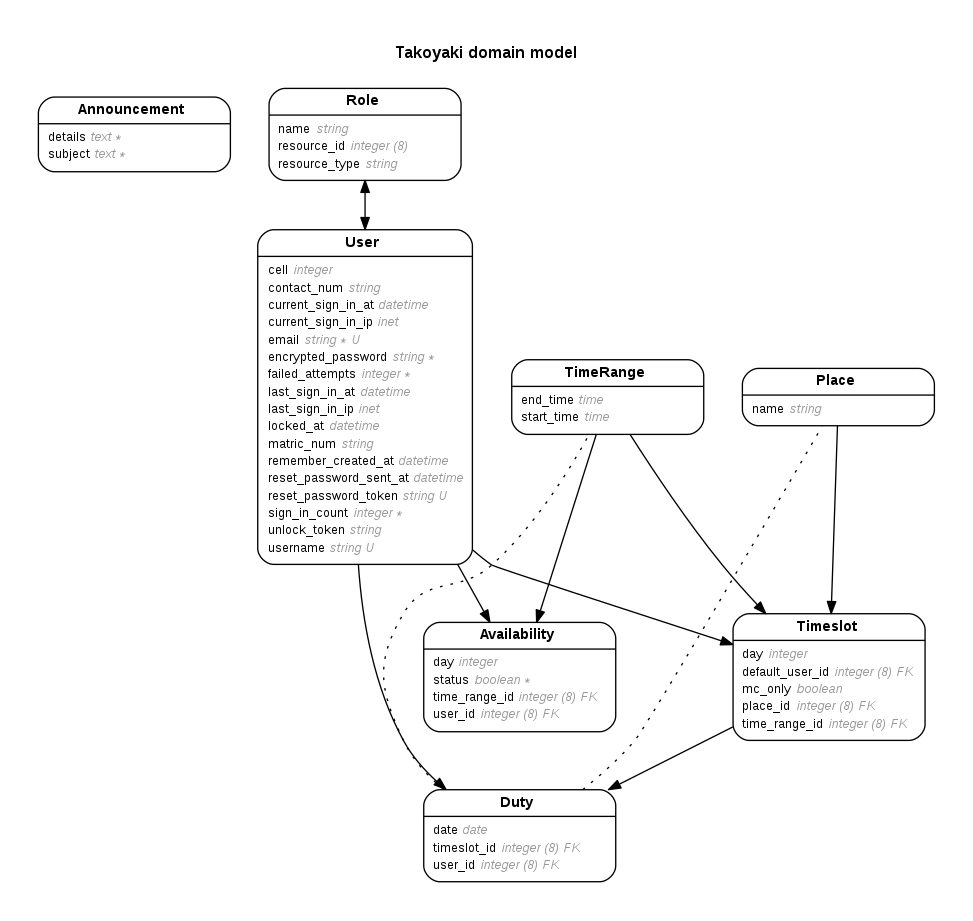
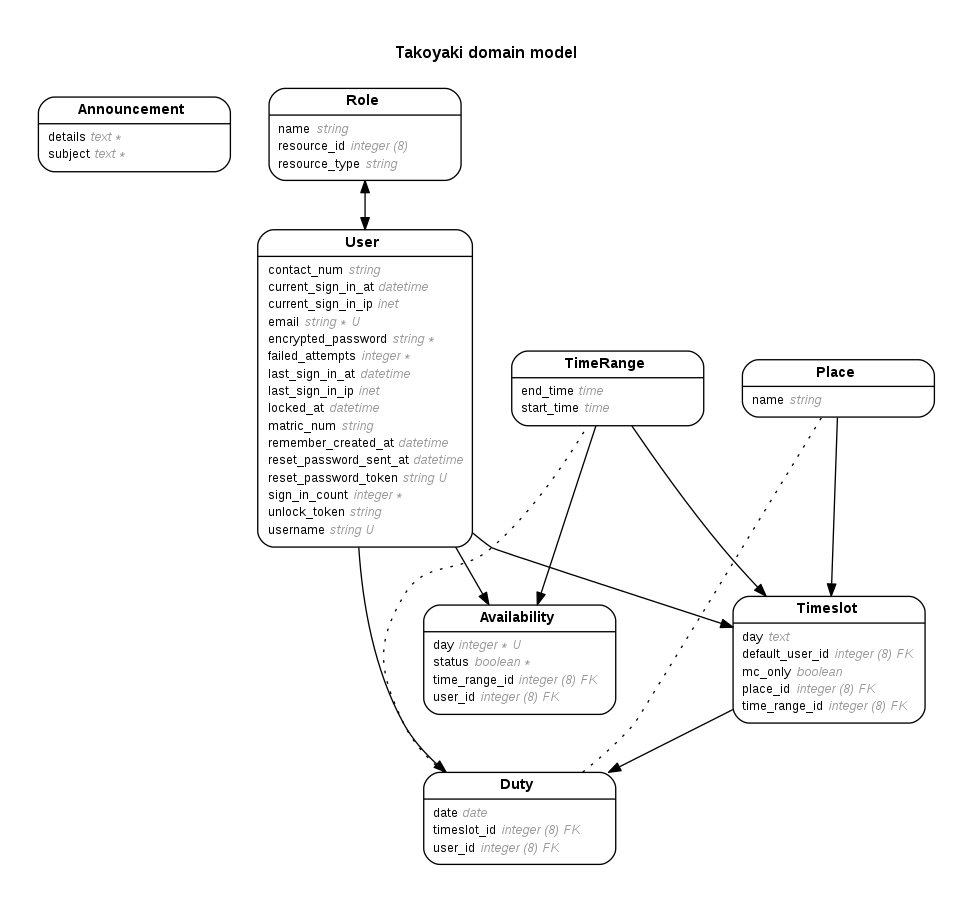
Remove AddCellToUsers Migration

diff --git a/db/schema.rb b/db/schema.rb
@@ -10,7 +10,7 @@
 #
 # It's strongly recommended that you check this file into your version control system.
 
-ActiveRecord::Schema.define(version: 20180329164621) do
+ActiveRecord::Schema.define(version: 20180319073436) do
 
   # These are extensions that must be enabled in order to support this database
   enable_extension "plpgsql"
@@ -24,11 +24,13 @@ ActiveRecord::Schema.define(version: 20180329164621) do
 
   create_table "availabilities", force: :cascade do |t|
     t.bigint   "user_id",       :index=>{:name=>"index_availabilities_on_user_id"}
+    t.integer  "day",           :null=>false
     t.bigint   "time_range_id", :index=>{:name=>"index_availabilities_on_time_range_id"}
     t.datetime "created_at",    :null=>false
     t.datetime "updated_at",    :null=>false
     t.boolean  "status",        :null=>false
-    t.integer  "day"
+
+    t.index ["user_id", "time_range_id", "day"], :name=>"index_availabilities_on_user_id_and_time_range_id_and_day", :unique=>true
   end
 
   create_table "duties", force: :cascade do |t|
@@ -62,12 +64,12 @@ ActiveRecord::Schema.define(version: 20180329164621) do
 
   create_table "timeslots", force: :cascade do |t|
     t.boolean  "mc_only"
+    t.text     "day"
     t.bigint   "default_user_id", :index=>{:name=>"index_timeslots_on_default_user_id"}
     t.bigint   "time_range_id",   :index=>{:name=>"index_timeslots_on_time_range_id"}
     t.bigint   "place_id",        :index=>{:name=>"index_timeslots_on_place_id"}
     t.datetime "created_at",      :null=>false
     t.datetime "updated_at",      :null=>false
-    t.integer  "day"
   end
 
   create_table "users", force: :cascade do |t|
@@ -89,7 +91,6 @@ ActiveRecord::Schema.define(version: 20180329164621) do
     t.string   "username",               :index=>{:name=>"index_users_on_username", :unique=>true}
     t.string   "matric_num"
     t.string   "contact_num"
-    t.integer  "cell"
   end
 
   create_table "users_roles", id: false, force: :cascade do |t|

diff --git a/spec/models/user_spec.rb b/spec/models/user_spec.rb
@@ -23,7 +23,6 @@
 #  username               :string
 #  matric_num             :string
 #  contact_num            :string
-#  cell                   :integer
 #
 # Indexes
 #
@@ -37,9 +36,4 @@ require 'rails_helper'
 RSpec.describe User, type: :model do
   it { should have_many(:duties) }
   it { should have_many(:timeslots).with_foreign_key(:default_user_id) }
-  it {
-    should define_enum_for(:cell)
-      .with(['Welfare', 'Training', 'Technical', 'Publicity', 'Presidential',
-             'Marketing', 'Center and Ops'])
-  }
 end

diff --git a/app/models/user.rb b/app/models/user.rb
@@ -23,7 +23,6 @@
 #  username               :string
 #  matric_num             :string
 #  contact_num            :string
-#  cell                   :integer
 #
 # Indexes
 #
@@ -41,6 +40,4 @@ class User < ApplicationRecord
   has_many :duties, dependent: :nullify
   has_many :timeslots, foreign_key: :default_user_id, inverse_of: :user,
                        dependent: :nullify
-  enum cell: ['Welfare', 'Training', 'Technical', 'Publicity', 'Presidential',
-              'Marketing', 'Center and Ops']
 end

diff --git a/app/models/timeslot.rb b/app/models/timeslot.rb
@@ -6,12 +6,12 @@
 #
 #  id              :integer          not null, primary key
 #  mc_only         :boolean
+#  day             :text
 #  default_user_id :integer
 #  time_range_id   :integer
 #  place_id        :integer
 #  created_at      :datetime         not null
 #  updated_at      :datetime         not null
-#  day             :integer
 #
 # Indexes
 #

diff --git a/spec/factories/timeslots.rb b/spec/factories/timeslots.rb
@@ -6,12 +6,12 @@
 #
 #  id              :integer          not null, primary key
 #  mc_only         :boolean
+#  day             :text
 #  default_user_id :integer
 #  time_range_id   :integer
 #  place_id        :integer
 #  created_at      :datetime         not null
 #  updated_at      :datetime         not null
-#  day             :integer
 #
 # Indexes
 #

diff --git a/spec/models/timeslot_spec.rb b/spec/models/timeslot_spec.rb
@@ -6,12 +6,12 @@
 #
 #  id              :integer          not null, primary key
 #  mc_only         :boolean
+#  day             :text
 #  default_user_id :integer
 #  time_range_id   :integer
 #  place_id        :integer
 #  created_at      :datetime         not null
 #  updated_at      :datetime         not null
-#  day             :integer
 #
 # Indexes
 #

diff --git a/spec/factories/users.rb b/spec/factories/users.rb
@@ -23,7 +23,6 @@
 #  username               :string
 #  matric_num             :string
 #  contact_num            :string
-#  cell                   :integer
 #
 # Indexes
 #
